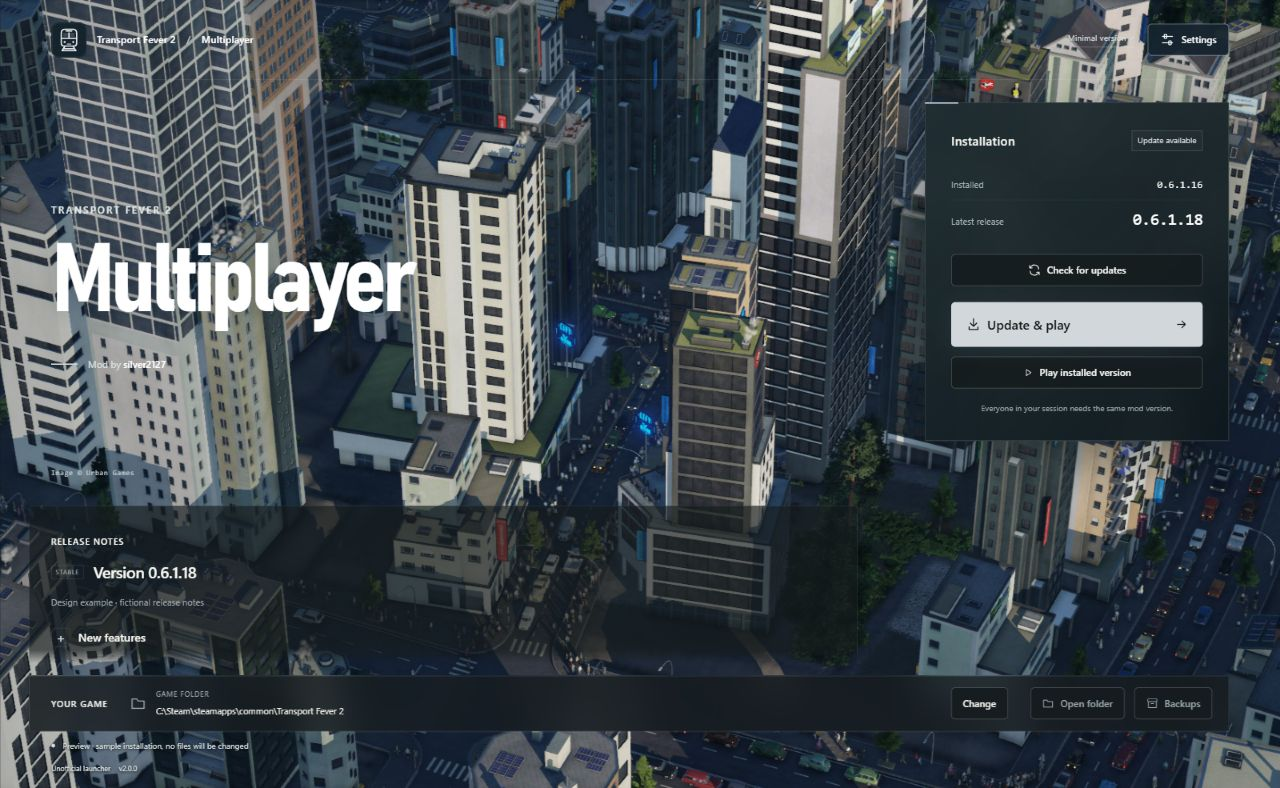
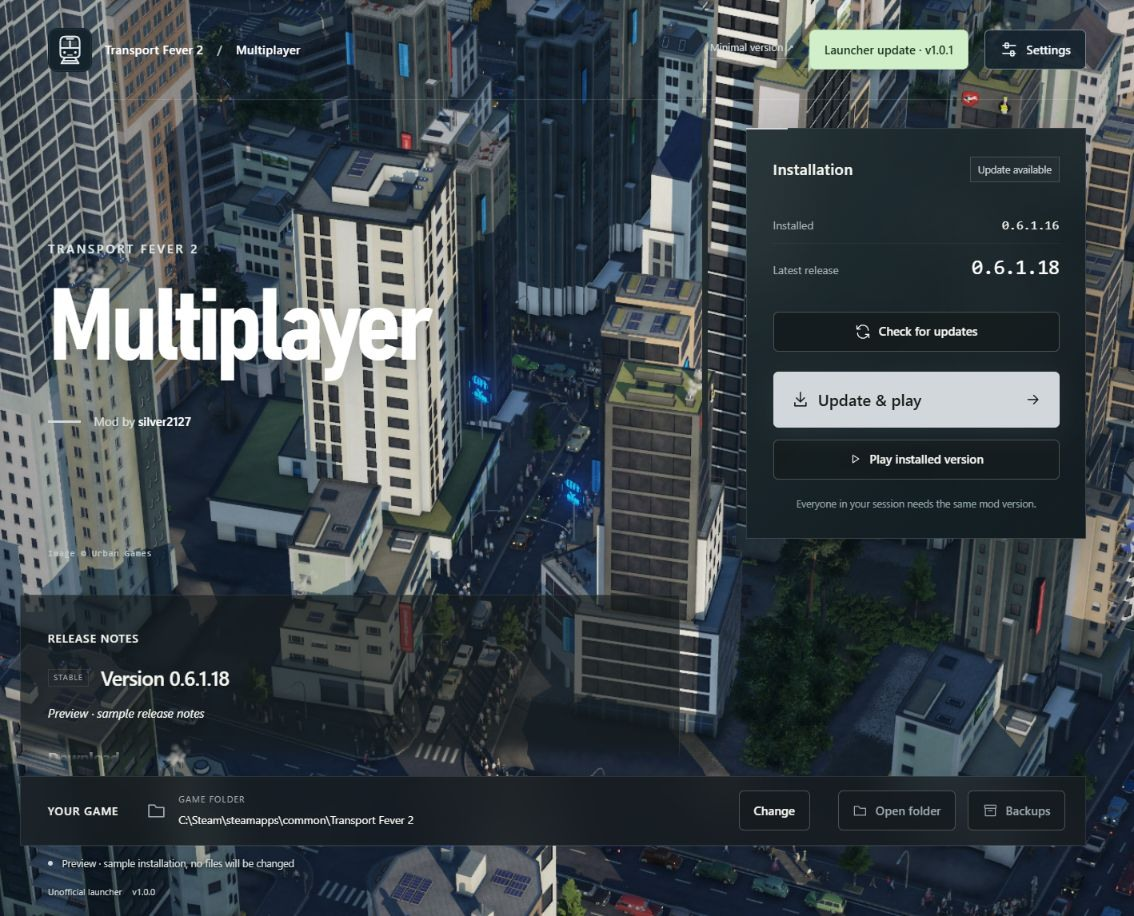
Refresh README screenshot for launcher 1.0.0

diff --git a/README.md b/README.md
@@ -12,9 +12,9 @@
   <p><sub>Windows 10 / 11 · 64-bit · English</sub></p>
 </div>
 
-![Launcher preview with installation controls and release notes over a Transport Fever 2 city screenshot](docs/images/launcher-preview.jpg)
+![Launcher 1.0.0 preview with a launcher update notification, installation controls and game folder bar over a full-width Transport Fever 2 city background](docs/images/launcher-preview.jpg)
 
-<p align="center"><sub>Browser preview with sample data. Categorized patchnotes are a design example; the desktop launcher displays the original GitHub release text. City image © Urban Games.</sub></p>
+<p align="center"><sub>Version 1.0.0 browser preview with sample data and a simulated launcher update to 1.0.1. Release notes and mod versions are examples; the desktop launcher displays the original GitHub release text. City image © Urban Games.</sub></p>
 
 ## Get in game
 
